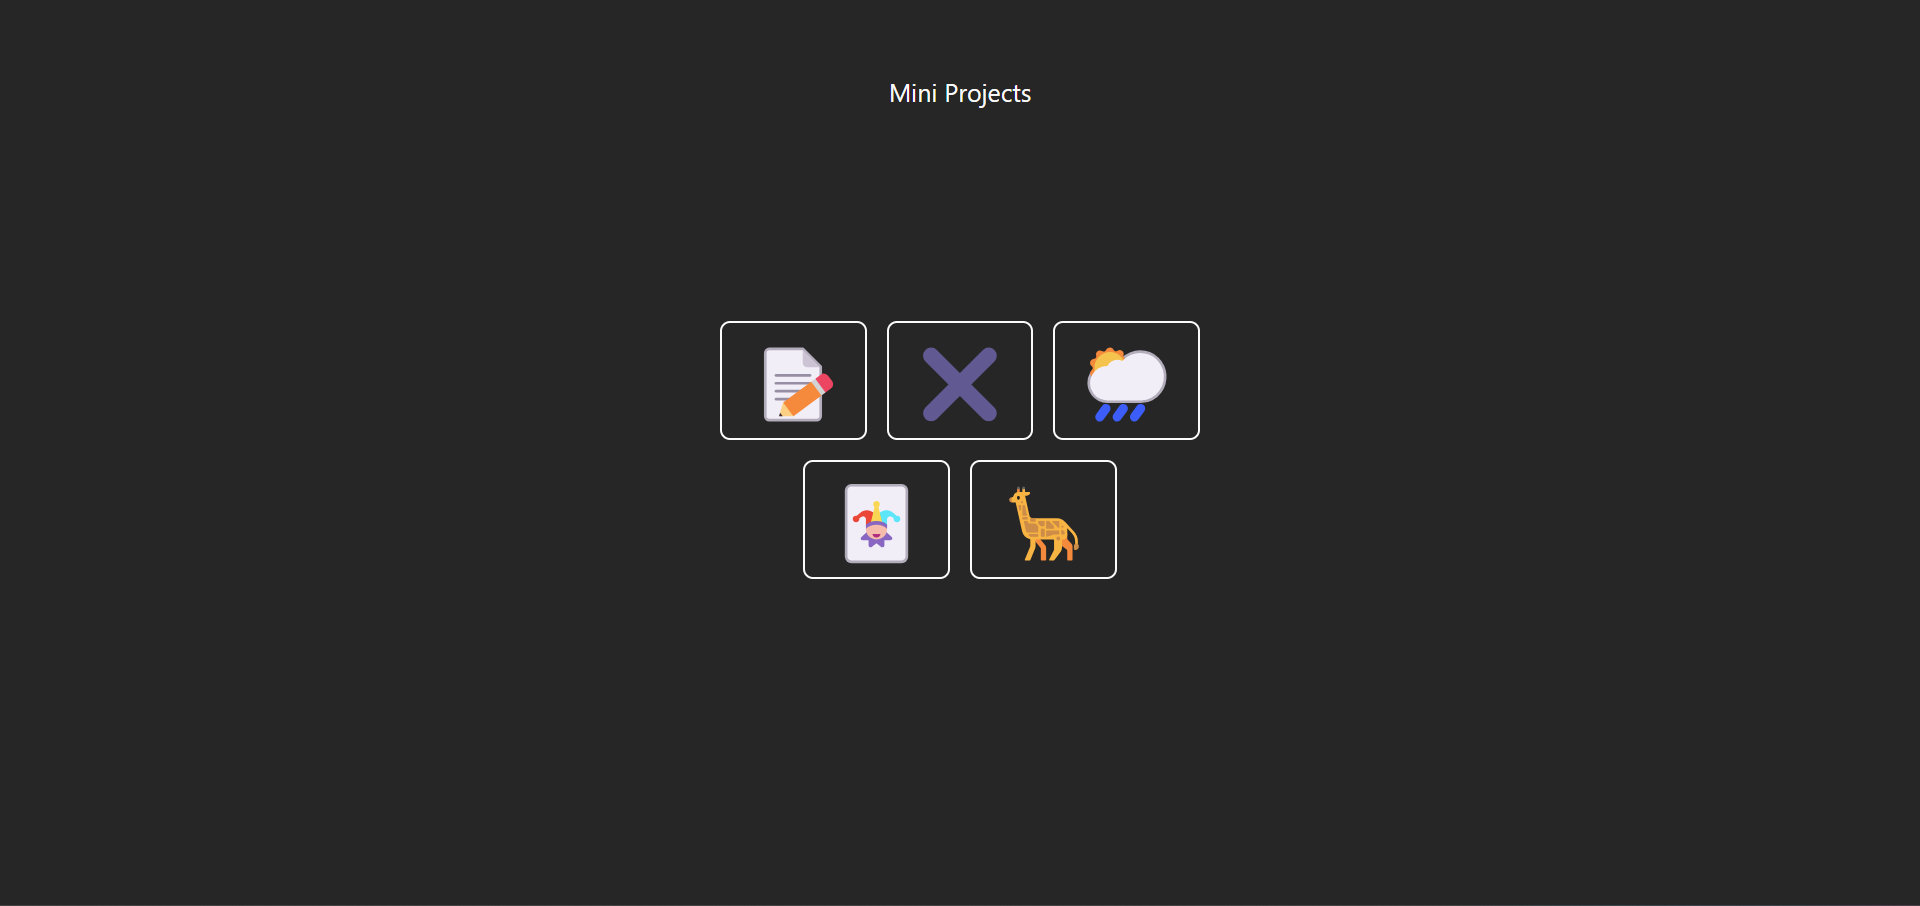
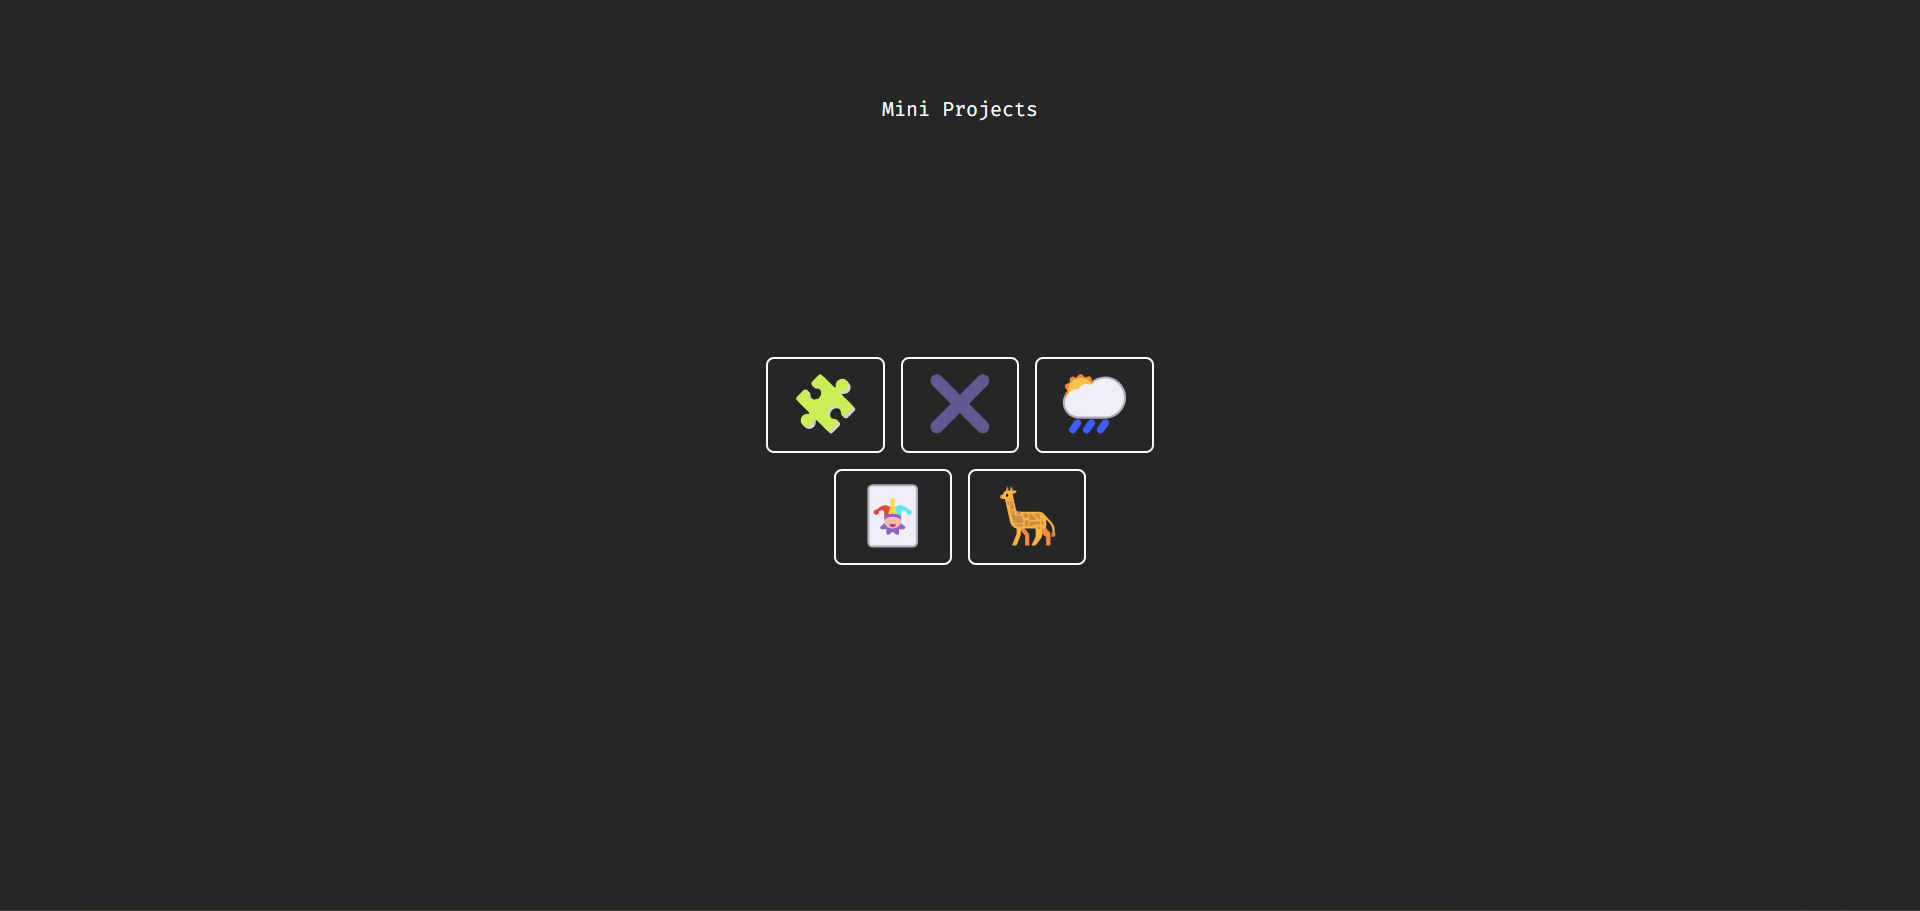
Update image

Changed region(s): [[0.375, 0.3709, 0.625, 0.649], [0.4375, 0.0927, 0.5312, 0.1236]]

diff --git a/index.html b/index.html
@@ -8,13 +8,20 @@
 		<link
 			href="https://fonts.googleapis.com/css2?family=Open+Sans:ital,wght@0,300..800;1,300..800&display=swap"
 			rel="stylesheet" />
+		<link rel="preconnect" href="https://fonts.googleapis.com" />
+		<link rel="preconnect" href="https://fonts.gstatic.com" crossorigin />
+		<link
+			href="https://fonts.googleapis.com/css2?family=Roboto+Mono:ital,wght@0,100..700;1,100..700&display=swap"
+			rel="stylesheet" />
 		<meta name="viewport" content="width=device-width, initial-scale=1.0" />
 		<title>Portfolio Website</title>
 	</head>
 	<body class="bg-white font-sans dark:bg-black">
 		<header
 			class="sticky top-0 z-50 flex items-center justify-between bg-zinc-800 text-xl">
-			<h1 class="px-8 font-bold text-orange-400">michael short</h1>
+			<h1 class="font-h1 px-8 font-bold text-orange-400">
+				michael short
+			</h1>
 			<nav role="navigation">
 				<ul class="hidden md:flex">
 					<li
@@ -154,7 +161,9 @@
 		<!-- End of Mobile Navigation -->
 
 		<main role="main">
-			<section role="about" class="shadow shadow-orange-400">
+			<section
+				role="about"
+				class="border-b-2 border-orange-500 border-opacity-75">
 				<p
 					class="mx-auto w-full p-8 text-xl text-black dark:text-neutral-200 sm:w-4/5 md:w-3/5 lg:w-5/12 xl:w-1/3">
 					Hi, I’m Michael, an aspiring front-end developer currently
@@ -183,7 +192,7 @@
 								aria-label="project 1 website link"
 								href="#"
 								class="m-1 flex h-12 w-32 items-center justify-center rounded bg-orange-400 p-4 text-xl font-medium text-black hover:brightness-110 xl:h-16 xl:w-40"
-								>View Live</a
+								>View</a
 							>
 							<a
 								aria-label="project 1 GitHub link"
@@ -198,7 +207,7 @@
 							aria-label="project 1 website link"
 							href="#"
 							class="mb-4 mr-1 flex h-12 w-1/2 items-center justify-center rounded bg-orange-400 p-4 text-xl font-medium text-black hover:brightness-110"
-							>View Live</a
+							>View</a
 						>
 						<a
 							aria-label="project 1 GitHub link"
@@ -219,7 +228,7 @@
 								aria-label="project 2 website link"
 								href="#"
 								class="m-1 flex h-12 w-32 items-center justify-center rounded bg-orange-400 p-4 text-xl font-medium text-black hover:brightness-110 xl:h-16 xl:w-40"
-								>View Live</a
+								>View</a
 							>
 							<a
 								aria-label="project 2 GitHub link"
@@ -234,7 +243,7 @@
 							aria-label="project 2 website link"
 							href="#"
 							class="mb-4 mr-1 flex h-12 w-1/2 items-center justify-center rounded bg-orange-400 p-4 text-xl font-medium text-black hover:brightness-110"
-							>View Live</a
+							>View</a
 						>
 						<a
 							aria-label="project 2 GitHub link"
@@ -255,7 +264,7 @@
 								aria-label="project 3 website link"
 								href="#"
 								class="m-1 flex h-12 w-32 items-center justify-center rounded bg-orange-400 p-4 text-xl font-medium text-black hover:brightness-110 xl:h-16 xl:w-40"
-								>View Live</a
+								>View</a
 							>
 							<a
 								aria-label="project 3 GitHub link"
@@ -270,7 +279,7 @@
 							aria-label="project 3 website link"
 							href="#"
 							class="mb-4 mr-1 flex h-12 w-1/2 items-center justify-center rounded bg-orange-400 p-4 text-xl font-medium text-black hover:brightness-110"
-							>View Live</a
+							>View</a
 						>
 						<a
 							aria-label="project 3 GitHub link"
@@ -291,7 +300,7 @@
 								aria-label="project 4 website link"
 								href="#"
 								class="m-1 flex h-12 w-32 items-center justify-center rounded bg-orange-400 p-4 text-xl font-medium text-black hover:brightness-110 xl:h-16 xl:w-40"
-								>View Live</a
+								>View</a
 							>
 							<a
 								aria-label="project 4 GitHub link"
@@ -306,7 +315,7 @@
 							aria-label="project 4 website link"
 							href="#"
 							class="mr-1 flex h-12 w-1/2 items-center justify-center rounded bg-orange-400 p-4 text-xl font-medium text-black hover:brightness-110"
-							>View Live</a
+							>View</a
 						>
 						<a
 							aria-label="project 4 GitHub link"

diff --git a/src/style.css b/src/style.css
@@ -13,3 +13,9 @@ html {
 		'Apple Color Emoji', 'Segoe UI Emoji', 'Segoe UI Symbol',
 		'Noto Color Emoji';
 }
+
+.font-h1 {
+	font-family: 'Roboto Mono', 'Open Sans', ui-sans-serif, system-ui,
+		sans-serif, 'Apple Color Emoji', 'Segoe UI Emoji', 'Segoe UI Symbol',
+		'Noto Color Emoji';
+}
